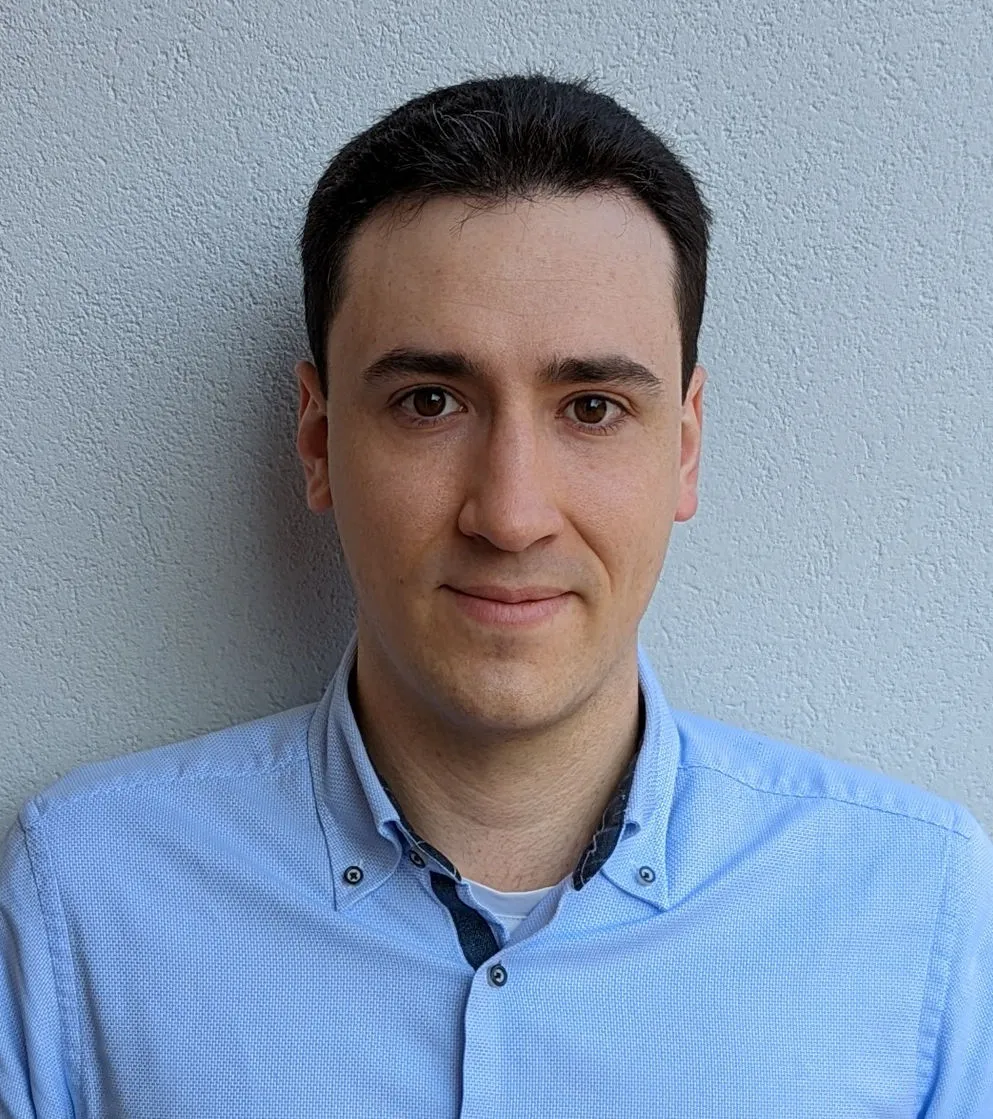
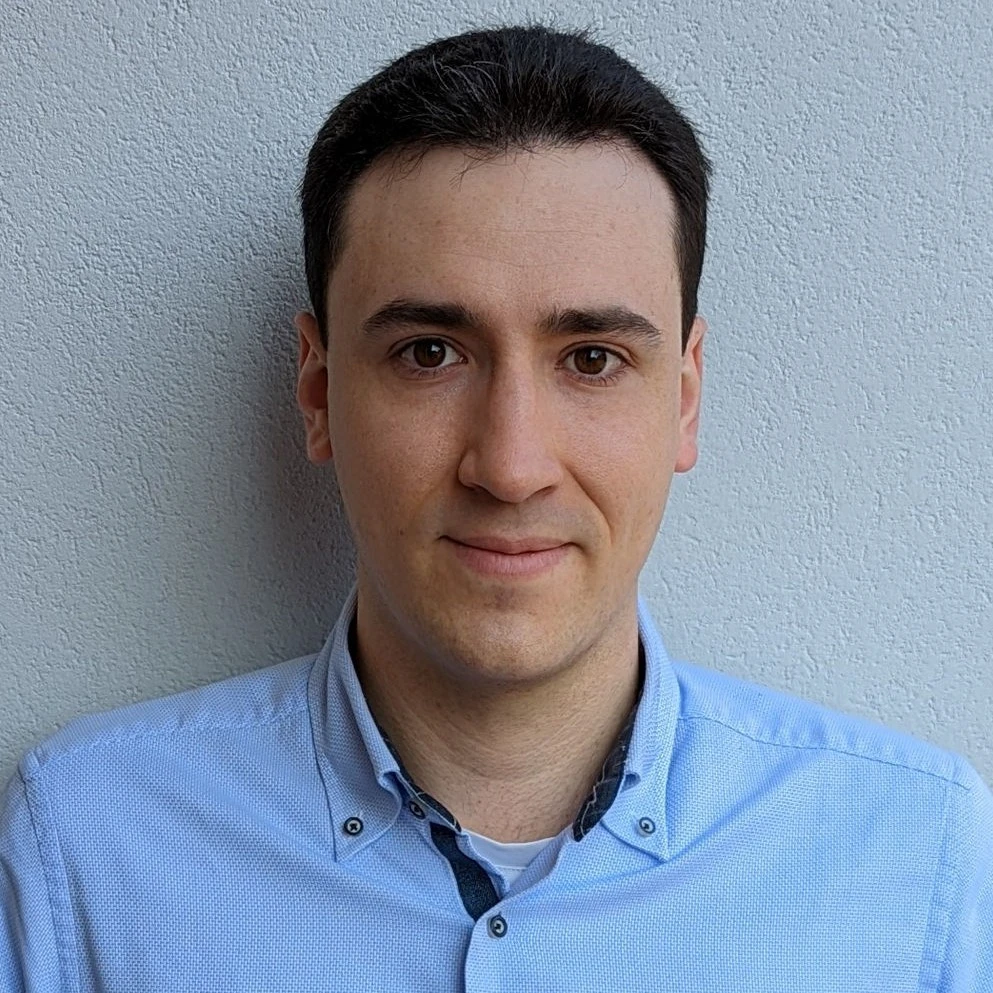
Fix photo aspect ratio

diff --git a/docs/main.css b/docs/main.css
@@ -1,1 +1,1 @@
-body{--primary-color: #6d9bff;--primary-pale-color: #6d9bff20;--text-color: #3C4043;--text-pale-color: #a0a9bf;--bg-color: #ffffff;--callout-note-color: #4890fc;--callout-note-bg-color: #4890fc20;--callout-important-color: #b080ff;--callout-important-bg-color: #b080ff30;--callout-warning-color: #e4a135;--callout-warning-bg-color: #f5a62325;--callout-alert-color: #ff6868;--callout-alert-bg-color: #ff686825;--callout-question-color: #4e95b9;--callout-question-bg-color: #4e95b920;--callout-tip-color: #41c885;--callout-tip-bg-color: #41c88530;--main-font: "Roboto", ui-sans-serif, system-ui, -apple-system, BlinkMacSystemFont, "Segoe UI", Roboto, "Helvetica Neue", Arial, "Noto Sans", sans-serif, "Apple Color Emoji", "Segoe UI Emoji", "Segoe UI Symbol", "Noto Color Emoji";--code-font: ui-monospace, SFMono-Regular, Menlo, Monaco, Consolas, "Liberation Mono", "Courier New", monospace;--homepage-max-width: 650px;--main-max-width: 900px;--avatar-size: 100px;--paragraph-font-size: 18px;--paragraph-line-height: 1.75;--img-border-radius: 4px;--code-border-radius: 4px}body.dark{--primary-color: #6d9bff;--primary-pale-color: #6d9bff20;--text-color: #9197a5;--text-pale-color: #5d6470;--bg-color: #202124}*,*::before,*::after{box-sizing:border-box}body{min-height:100%;font-family:var(--main-font);background-color:var(--bg-color);color:var(--text-color)}html{scroll-behavior:smooth}@media screen and (min-width: 425px){::-webkit-scrollbar{width:6px;height:6px}::-webkit-scrollbar-track{background:rgba(0,0,0,0)}::-webkit-scrollbar-thumb{background:rgba(174,183,202,.631372549);border-radius:2px}::-webkit-scrollbar-thumb:hover{background:rgba(138,144,161,.631372549)}}body.homepage #wrapper{min-height:100vh;display:flex;justify-content:center;align-items:center}body.homepage main{max-width:var(--homepage-max-width);padding:2em 1em 6em}body.homepage #info{display:flex;gap:1em}body.homepage #info img{height:var(--avatar-size);width:var(--avatar-size);border-radius:50%}body.homepage #info #text{font-size:1.25em;display:flex;flex-direction:column;justify-content:space-around}body.homepage #info #id{margin-left:.5em;color:var(--primary-color)}body.homepage #info #bio{font-size:.85em}body.homepage #links{max-height:24px;margin:1.25em 0 1.5em;display:flex;justify-content:space-between;align-items:center;flex-wrap:wrap;gap:.5em 1em;font-size:1.25em}body.homepage #links a,body.homepage #links button{text-decoration:none;color:var(--text-color)}body.homepage #links a:hover,body.homepage #links button:hover{color:var(--primary-color)}body.homepage #links #left{display:flex;gap:1em}body.homepage #links #left a{border-bottom:1.5px solid var(--primary-color);line-height:24px}body.homepage #links #right{display:flex;gap:.5em}body.homepage #links #right a,body.homepage #links #right button{width:24px;height:24px}body.homepage #links #right button{padding:0;border:none;background-color:rgba(0,0,0,0);cursor:pointer}@media (max-width: 425px){body.homepage #links #left{gap:.75em}}body.homepage #brief{font-size:1.25em;line-height:1.5;margin:2em 0 0 0}body.homepage #brief p{word-wrap:break-word;margin:.5em 0}body.homepage #brief a{color:var(--primary-color);text-decoration:underline var(--primary-pale-color) 1.5px}body.homepage #brief a:hover{text-decoration-color:var(--primary-color)}body.homepage #brief p>code{font-family:var(--code-font);font-size:.8em;padding:1px 6px;color:var(--primary-color);background-color:var(--primary-pale-color);border-radius:4px}body.homepage #brief img{max-width:100%;display:block;margin:0 auto;border-radius:var(--img-border-radius)}body.homepage #brief blockquote{border-left:4px var(--primary-pale-color) solid;padding-left:16px;margin:0 0 24px 0;color:var(--text-pale-color)}body.homepage #brief li::marker{color:var(--primary-color)}body.homepage #brief hr{border:none;background-color:var(--primary-pale-color);height:3px;margin:36px 0}header{z-index:99;position:fixed;top:0;width:100%;height:45px;background-color:var(--bg-color);border-bottom:1.5px solid var(--primary-color)}@supports (-webkit-backdrop-filter: none) or (backdrop-filter: none){header.blur{background-color:fade(var(--bg-color), 75%);-webkit-backdrop-filter:blur(8px);backdrop-filter:blur(8px)}}header #wrapper{height:100%;max-width:var(--main-max-width);margin:0 auto;padding:0 15px;display:flex;justify-content:space-between;align-items:center;position:relative}header nav{font-size:1.4em}header nav a{color:var(--text-color);text-decoration:none}header nav a:hover{color:var(--primary-color)}header nav .separator{margin:0 .5em}header #btns{display:flex;gap:1em;align-items:center;padding-top:4px;margin:0 .5em 0 0}header #btns a,header #btns button{width:24px;height:24px;border:none;background-color:rgba(0,0,0,0);padding:0;text-decoration:none;color:var(--text-color);cursor:pointer}@media (hover: hover){header #btns a:hover,header #btns button:hover{color:var(--primary-color)}}header #toc-toggle{display:none}@media (max-width: 1024px){header #toc-toggle{display:inline-block}header #toc-toggle.active{color:var(--primary-color)}}footer{font-size:1rem;padding:15px;display:flex;justify-content:space-between;align-items:center;flex-wrap:wrap;gap:15px;color:var(--text-pale-color)}footer a{color:var(--text-pale-color)}@media (max-width: 374px){footer{flex-direction:column;gap:0}}body.blog #blog-wrapper{margin:0 auto;max-width:var(--main-max-width);min-height:100vh;display:flex;flex-direction:column;justify-content:space-between}body.blog main{margin:60px 0}body.blog main .category{font-size:1.3em;margin:25px 15px 15px}body.blog main .publication{padding:15px 15px;border-radius:4px}body.blog main .publication:hover{background-color:var(--primary-pale-color)}@media (max-width: 768px){body.blog main .publication{margin:0 0px 0 0;padding:10px 0px 10px 0;font-size:.8em}}body.blog main .publication .publication-title{font-size:1em;padding:2px 0 2px 0;font-weight:bold}body.blog main .publication .publication-venue{padding:2px 0 2px 0;font-family:var(--code-font)}body.blog main .post-list{margin-top:25px}body.blog main .post{padding:15px 15px;border-radius:4px}body.blog main .post:hover{background-color:var(--primary-pale-color)}body.blog main .post .tags-list>p{font-family:var(--code-font);margin:0 5px;padding:0 10px 0 0}@media (max-width: 768px){body.blog main .post .tags-list>p{font-size:1em;margin:0 0px 0 0;padding:0px 0px 0 18px;font-size:.8em}}body.blog main .post>a{display:flex;justify-content:space-between;align-items:flex-end;font-size:1.3em;text-decoration:none;color:var(--primary-color);-webkit-tap-highlight-color:rgba(0,0,0,0)}@media (max-width: 768px){body.blog main .post>a{font-size:1em;margin:0 5px;padding:7.5px 10px}}body.blog main .post>a .date{white-space:nowrap}body.blog main .post-description{margin:0 5px;padding:0 10px 0 0}@media (max-width: 900px){body.blog main .post-description{font-size:1em;margin:0 5px 0 0;padding:0 15px 0 17px;font-size:.8em}}body.post #post-wrapper{display:flex;justify-content:space-between;margin-top:45px;font-size:18px;min-height:100vh}body.post #blank{width:calc((100% - var(--main-max-width))/2)}body.post main{width:100%;max-width:var(--main-max-width)}body.post article{padding:0 15px 30px;font-size:var(--paragraph-font-size)}body.post article #post-info{display:flex;justify-content:space-between;align-items:center;flex-wrap:wrap;margin-bottom:1em}body.post article #date{color:var(--text-pale-color);margin-bottom:1em}body.post article #date #publish,body.post article #date #updated{margin-right:20px}body.post article #tags{margin-bottom:1em;display:flex;gap:1em;flex-wrap:wrap}body.post article #tags a{color:var(--primary-color);text-decoration:none}body.post article h1{font-size:1.5em;font-weight:bolder;margin:1em 0 .5em 0}body.post article h2{font-size:1.3em;padding-top:65px;margin-top:-45px}body.post article h3{font-size:1.1em;padding-top:65px;margin-top:-45px}body.post article h4{font-size:1.05em;margin:30px 0 15px 0}body.post article .zola-anchor{visibility:hidden;margin-left:.75em;font-size:.85em}body.post article h1:hover a.zola-anchor,body.post article h2:hover a.zola-anchor,body.post article h3:hover a.zola-anchor,body.post article h4:hover a.zola-anchor,body.post article h5:hover a.zola-anchor,body.post article h6:hover a.zola-anchor{visibility:visible}body.post article p{font-size:1em;line-height:var(--paragraph-line-height);word-wrap:break-word;text-align:justify}body.post article a{color:var(--primary-color);text-decoration:underline var(--primary-pale-color) 1.5px}body.post article a:hover{text-decoration-color:var(--primary-color)}body.post article img{max-width:100%;display:block;margin:0 auto;border-radius:8px}body.post article figure{margin:0 auto}body.post article figcaption{width:100%;text-align:center;margin:5px auto}body.post article blockquote{border-left:4px var(--primary-pale-color) solid;padding-left:16px;margin:0 0 24px 0;color:var(--text-pale-color)}body.post article p>code{font-family:var(--code-font);font-size:.8em;padding:1px 6px;color:var(--primary-color);background-color:var(--primary-pale-color);border-radius:4px}body.post article pre{padding:12px 16px;line-height:1.5;border-radius:var(--code-border-radius);overflow:auto;font-size:.8em}body.post article pre code{font-family:var(--code-font)}body.post article pre[data-linenos]{padding:12px 12px 12px 0px}body.post article pre table{width:100%;border-collapse:collapse}body.post article pre table td{padding:0;line-height:initial;text-align:initial;border:initial}body.post article pre table td:nth-of-type(1){text-align:right;user-select:none;padding-right:1em}body.post article pre mark{display:block;background-color:rgba(254,252,232,.9)}body.post article ul,body.post article ol{line-height:1.8}body.post article li::marker{color:var(--primary-color)}body.post article hr{border:none;background-color:var(--primary-pale-color);height:3px;margin:36px 0}body.post article table{width:100%;border-spacing:0}body.post article thead{background-color:var(--primary-pale-color)}body.post article th,body.post article td{line-height:2;text-align:center;border:1px solid var(--primary-pale-color)}body.post article .footnote-definition{display:flex;margin:2em 0 1em}body.post article .footnote-definition p{margin-top:0}body.post article blockquote.callout{line-height:var(--paragraph-line-height);margin-bottom:20px;border:none;border-radius:4px;padding:6px 12px;display:flex;gap:10px}body.post article blockquote.callout .icon{height:1.75em;display:flex;align-items:center}body.post article blockquote.callout .content p{margin:0}body.post article blockquote.callout .content p+p{margin-top:.5em}body.post article blockquote.callout.note{color:var(--callout-note-color);background-color:var(--callout-note-bg-color)}body.post article blockquote.callout.important{color:var(--callout-important-color);background-color:var(--callout-important-bg-color)}body.post article blockquote.callout.warning{color:var(--callout-warning-color);background-color:var(--callout-warning-bg-color)}body.post article blockquote.callout.alert{color:var(--callout-alert-color);background-color:var(--callout-alert-bg-color)}body.post article blockquote.callout.question{color:var(--callout-question-color);background-color:var(--callout-question-bg-color)}body.post article blockquote.callout.tip{color:var(--callout-tip-color);background-color:var(--callout-tip-bg-color)}body.post .mermaid{background:#fff}body.post .giscus{padding:0 15px}body.post aside{width:calc((100% - var(--main-max-width))/2);position:sticky;margin-top:125px;top:60px;height:min-content;font-size:var(--paragraph-font-size);z-index:9}body.post aside nav{min-width:60%;overflow-y:auto;max-height:80vh;scrollbar-width:none}body.post aside nav::-webkit-scrollbar{width:0}body.post aside ul{list-style-type:none;padding-left:1.5em;line-height:2;margin:0}body.post aside nav a{text-decoration:none;display:block;overflow:hidden;text-overflow:ellipsis;white-space:nowrap;color:var(--primary-color)}body.post aside nav a::before{display:inline-block;content:"";width:3px;height:10px;border-radius:2px;position:relative;top:-1px;margin-right:10px}body.post aside nav a:hover::before,body.post aside nav a.active::before{background-color:var(--primary-color)}@media screen and (max-width: 1024px){body.post aside{position:fixed;right:-100%;top:45px;margin-top:0;min-width:260px;height:100%;background-color:var(--bg-color);box-shadow:rgba(0,0,0,.08) -2px 8px 8px 0px}body.post aside.shown{right:0}body.post aside nav{padding-top:10px}body.post aside ul{padding-left:10px}@supports (-webkit-backdrop-filter: none) or (backdrop-filter: none){body.post aside.blur{background-color:fade(var(--bg-color), 75%);-webkit-backdrop-filter:blur(8px);backdrop-filter:blur(8px)}}body.post #blank{display:none}body.post main{margin:0 auto}}body.post #top{padding-top:45px;margin-top:-45px}body.tag-list #tag-list-wrapper{margin:0 auto;max-width:var(--main-max-width);min-height:100vh;display:flex;flex-direction:column;justify-content:space-between}body.tag-list main{margin:85px auto 60px}body.tag-list .title{width:min-content;font-size:1.3em;margin:0 auto}body.tag-list .tags{margin-top:40px;display:flex;justify-content:center;align-items:center;flex-wrap:wrap;font-size:1.1em}body.tag-list .tags a{color:var(--primary-color);text-decoration:none;margin:2em}body.tag-single #tag-single-wrapper{margin:0 auto;max-width:var(--main-max-width);min-height:100vh;display:flex;flex-direction:column;justify-content:space-between}body.tag-single main{width:100%;margin:85px auto 60px}body.tag-single .title{width:min-content;white-space:nowrap;color:var(--text-color);font-size:1.3em;margin:0 auto;margin-bottom:40px;padding:0 0 0 60px}body.tag-single .title a{margin-left:30px;font-size:.4em;color:var(--primary-color)}body.tag-single .post{display:flex;justify-content:space-between;align-items:flex-end;padding:8px 15px;border-radius:4px;font-size:1.1em;text-decoration:none;color:var(--primary-color)}body.tag-single .post:hover{background-color:var(--primary-pale-color)}body.tag-single .post .date{color:var(--primary-color);white-space:nowrap}@media screen and (max-width: 768px){body.tag-single .post{font-size:1.1em;margin-left:5px;margin-right:5px;padding-left:10px;padding-right:10px}}body.projects #proj-wrapper{margin:0 auto;max-width:var(--main-max-width);min-height:100vh;display:flex;flex-direction:column;justify-content:space-between}body.projects main{width:100%;margin:85px auto 60px}body.projects .proj{margin:0px 15px 30px}body.projects .proj .name{font-size:1.15em;margin:0 0 15px 0;color:var(--primary-color)}body.projects .proj .desc{line-height:1.5;margin:0 0 10px 0}body.projects .proj .desc a{color:var(--primary-color);text-decoration:underline var(--primary-pale-color) 2px}body.projects .proj .desc a:hover{text-decoration-color:var(--primary-color)}body.projects .proj .desc p>code{font-family:var(--code-font);font-size:.8em;padding:1px 6px;color:var(--primary-color);background-color:var(--primary-pale-color);border-radius:4px}body.projects .proj .links{display:flex;justify-content:end;gap:1em}body.projects .proj .links a{text-decoration:none;border-bottom:1.5px solid var(--primary-color);padding:0 2px;cursor:pointer;color:inherit}body.projects .proj .links a:visited{color:inherit}body.projects .proj .links a:hover{color:var(--primary-color)}html{line-height:1.15;-webkit-text-size-adjust:100%;text-size-adjust:100%}body{margin:0}main{display:block}h1{font-size:2em;margin:.67em 0}hr{box-sizing:content-box;height:0;overflow:visible}pre{font-family:monospace,monospace;font-size:1em}a{background-color:rgba(0,0,0,0)}abbr[title]{border-bottom:none;text-decoration:underline;text-decoration:underline dotted}b,strong{font-weight:bolder}code,kbd,samp{font-family:monospace,monospace;font-size:1em}small{font-size:80%}sub,sup{font-size:75%;line-height:0;position:relative;vertical-align:baseline}sub{bottom:-.25em}sup{top:-.5em}img{border-style:none}button,input,optgroup,select,textarea{font-family:inherit;font-size:100%;line-height:1.15;margin:0}button,input{overflow:visible}button,select{text-transform:none}button,[type=button],[type=reset],[type=submit]{-webkit-appearance:button;appearance:button}button::-moz-focus-inner,[type=button]::-moz-focus-inner,[type=reset]::-moz-focus-inner,[type=submit]::-moz-focus-inner{border-style:none;padding:0}button:-moz-focusring,[type=button]:-moz-focusring,[type=reset]:-moz-focusring,[type=submit]:-moz-focusring{outline:1px dotted ButtonText}fieldset{padding:.35em .75em .625em}legend{box-sizing:border-box;color:inherit;display:table;max-width:100%;padding:0;white-space:normal}progress{vertical-align:baseline}textarea{overflow:auto}[type=checkbox],[type=radio]{box-sizing:border-box;padding:0}[type=number]::-webkit-inner-spin-button,[type=number]::-webkit-outer-spin-button{height:auto}[type=search]{-webkit-appearance:textfield;appearance:textfield;outline-offset:-2px}[type=search]::-webkit-search-decoration{-webkit-appearance:none}::-webkit-file-upload-button{-webkit-appearance:button;font:inherit}details{display:block}summary{display:list-item}template{display:none}[hidden]{display:none}
+body{--primary-color: #6d9bff;--primary-pale-color: #6d9bff20;--text-color: #3C4043;--text-pale-color: #a0a9bf;--bg-color: #ffffff;--callout-note-color: #4890fc;--callout-note-bg-color: #4890fc20;--callout-important-color: #b080ff;--callout-important-bg-color: #b080ff30;--callout-warning-color: #e4a135;--callout-warning-bg-color: #f5a62325;--callout-alert-color: #ff6868;--callout-alert-bg-color: #ff686825;--callout-question-color: #4e95b9;--callout-question-bg-color: #4e95b920;--callout-tip-color: #41c885;--callout-tip-bg-color: #41c88530;--main-font: "Roboto", ui-sans-serif, system-ui, -apple-system, BlinkMacSystemFont, "Segoe UI", Roboto, "Helvetica Neue", Arial, "Noto Sans", sans-serif, "Apple Color Emoji", "Segoe UI Emoji", "Segoe UI Symbol", "Noto Color Emoji";--code-font: ui-monospace, SFMono-Regular, Menlo, Monaco, Consolas, "Liberation Mono", "Courier New", monospace;--homepage-max-width: 650px;--main-max-width: 900px;--avatar-size: 100px;--paragraph-font-size: 18px;--paragraph-line-height: 1.75;--img-border-radius: 4px;--code-border-radius: 4px}body.dark{--primary-color: #6d9bff;--primary-pale-color: #6d9bff20;--text-color: #9197a5;--text-pale-color: #5d6470;--bg-color: #202124}*,*::before,*::after{box-sizing:border-box}body{min-height:100%;font-family:var(--main-font);background-color:var(--bg-color);color:var(--text-color)}html{scroll-behavior:smooth}@media screen and (min-width: 425px){::-webkit-scrollbar{width:6px;height:6px}::-webkit-scrollbar-track{background:rgba(0,0,0,0)}::-webkit-scrollbar-thumb{background:rgba(174,183,202,.631372549);border-radius:2px}::-webkit-scrollbar-thumb:hover{background:rgba(138,144,161,.631372549)}}body.homepage #wrapper{min-height:100vh;display:flex;justify-content:center;align-items:center}body.homepage main{max-width:var(--homepage-max-width);padding:2em 1em 6em}body.homepage #info{display:flex;gap:1em}body.homepage #info img{height:var(--avatar-size);width:var(--avatar-size);border-radius:50%;aspect-ratio:1/1}body.homepage #info #text{font-size:1.25em;display:flex;flex-direction:column;justify-content:space-around}body.homepage #info #id{margin-left:.5em;color:var(--primary-color)}body.homepage #info #bio{font-size:.85em}body.homepage #links{max-height:24px;margin:1.25em 0 1.5em;display:flex;justify-content:space-between;align-items:center;flex-wrap:wrap;gap:.5em 1em;font-size:1.25em}body.homepage #links a,body.homepage #links button{text-decoration:none;color:var(--text-color)}body.homepage #links a:hover,body.homepage #links button:hover{color:var(--primary-color)}body.homepage #links #left{display:flex;gap:1em}body.homepage #links #left a{border-bottom:1.5px solid var(--primary-color);line-height:24px}body.homepage #links #right{display:flex;gap:.5em}body.homepage #links #right a,body.homepage #links #right button{width:24px;height:24px}body.homepage #links #right button{padding:0;border:none;background-color:rgba(0,0,0,0);cursor:pointer}@media (max-width: 425px){body.homepage #links #left{gap:.75em}}body.homepage #brief{font-size:1.25em;line-height:1.5;margin:2em 0 0 0}body.homepage #brief p{word-wrap:break-word;margin:.5em 0}body.homepage #brief a{color:var(--primary-color);text-decoration:underline var(--primary-pale-color) 1.5px}body.homepage #brief a:hover{text-decoration-color:var(--primary-color)}body.homepage #brief p>code{font-family:var(--code-font);font-size:.8em;padding:1px 6px;color:var(--primary-color);background-color:var(--primary-pale-color);border-radius:4px}body.homepage #brief img{max-width:100%;display:block;margin:0 auto;border-radius:var(--img-border-radius)}body.homepage #brief blockquote{border-left:4px var(--primary-pale-color) solid;padding-left:16px;margin:0 0 24px 0;color:var(--text-pale-color)}body.homepage #brief li::marker{color:var(--primary-color)}body.homepage #brief hr{border:none;background-color:var(--primary-pale-color);height:3px;margin:36px 0}header{z-index:99;position:fixed;top:0;width:100%;height:45px;background-color:var(--bg-color);border-bottom:1.5px solid var(--primary-color)}@supports (-webkit-backdrop-filter: none) or (backdrop-filter: none){header.blur{background-color:fade(var(--bg-color), 75%);-webkit-backdrop-filter:blur(8px);backdrop-filter:blur(8px)}}header #wrapper{height:100%;max-width:var(--main-max-width);margin:0 auto;padding:0 15px;display:flex;justify-content:space-between;align-items:center;position:relative}header nav{font-size:1.4em}header nav a{color:var(--text-color);text-decoration:none}header nav a:hover{color:var(--primary-color)}header nav .separator{margin:0 .5em}header #btns{display:flex;gap:1em;align-items:center;padding-top:4px;margin:0 .5em 0 0}header #btns a,header #btns button{width:24px;height:24px;border:none;background-color:rgba(0,0,0,0);padding:0;text-decoration:none;color:var(--text-color);cursor:pointer}@media (hover: hover){header #btns a:hover,header #btns button:hover{color:var(--primary-color)}}header #toc-toggle{display:none}@media (max-width: 1024px){header #toc-toggle{display:inline-block}header #toc-toggle.active{color:var(--primary-color)}}footer{font-size:1rem;padding:15px;display:flex;justify-content:space-between;align-items:center;flex-wrap:wrap;gap:15px;color:var(--text-pale-color)}footer a{color:var(--text-pale-color)}@media (max-width: 374px){footer{flex-direction:column;gap:0}}body.blog #blog-wrapper{margin:0 auto;max-width:var(--main-max-width);min-height:100vh;display:flex;flex-direction:column;justify-content:space-between}body.blog main{margin:60px 0}body.blog main .category{font-size:1.3em;margin:25px 15px 15px}body.blog main .publication{padding:15px 15px;border-radius:4px}body.blog main .publication:hover{background-color:var(--primary-pale-color)}@media (max-width: 768px){body.blog main .publication{margin:0 0px 0 0;padding:10px 0px 10px 0;font-size:.8em}}body.blog main .publication .publication-title{font-size:1em;padding:2px 0 2px 0;font-weight:bold}body.blog main .publication .publication-venue{padding:2px 0 2px 0;font-family:var(--code-font)}body.blog main .post-list{margin-top:25px}body.blog main .post{padding:15px 15px;border-radius:4px}body.blog main .post:hover{background-color:var(--primary-pale-color)}body.blog main .post .tags-list>p{font-family:var(--code-font);margin:0 5px;padding:0 10px 0 0}@media (max-width: 768px){body.blog main .post .tags-list>p{font-size:1em;margin:0 0px 0 0;padding:0px 0px 0 18px;font-size:.8em}}body.blog main .post>a{display:flex;justify-content:space-between;align-items:flex-end;font-size:1.3em;text-decoration:none;color:var(--primary-color);-webkit-tap-highlight-color:rgba(0,0,0,0)}@media (max-width: 768px){body.blog main .post>a{font-size:1em;margin:0 5px;padding:7.5px 10px}}body.blog main .post>a .date{white-space:nowrap}body.blog main .post-description{margin:0 5px;padding:0 10px 0 0}@media (max-width: 900px){body.blog main .post-description{font-size:1em;margin:0 5px 0 0;padding:0 15px 0 17px;font-size:.8em}}body.post #post-wrapper{display:flex;justify-content:space-between;margin-top:45px;font-size:18px;min-height:100vh}body.post #blank{width:calc((100% - var(--main-max-width))/2)}body.post main{width:100%;max-width:var(--main-max-width)}body.post article{padding:0 15px 30px;font-size:var(--paragraph-font-size)}body.post article #post-info{display:flex;justify-content:space-between;align-items:center;flex-wrap:wrap;margin-bottom:1em}body.post article #date{color:var(--text-pale-color);margin-bottom:1em}body.post article #date #publish,body.post article #date #updated{margin-right:20px}body.post article #tags{margin-bottom:1em;display:flex;gap:1em;flex-wrap:wrap}body.post article #tags a{color:var(--primary-color);text-decoration:none}body.post article h1{font-size:1.5em;font-weight:bolder;margin:1em 0 .5em 0}body.post article h2{font-size:1.3em;padding-top:65px;margin-top:-45px}body.post article h3{font-size:1.1em;padding-top:65px;margin-top:-45px}body.post article h4{font-size:1.05em;margin:30px 0 15px 0}body.post article .zola-anchor{visibility:hidden;margin-left:.75em;font-size:.85em}body.post article h1:hover a.zola-anchor,body.post article h2:hover a.zola-anchor,body.post article h3:hover a.zola-anchor,body.post article h4:hover a.zola-anchor,body.post article h5:hover a.zola-anchor,body.post article h6:hover a.zola-anchor{visibility:visible}body.post article p{font-size:1em;line-height:var(--paragraph-line-height);word-wrap:break-word;text-align:justify}body.post article a{color:var(--primary-color);text-decoration:underline var(--primary-pale-color) 1.5px}body.post article a:hover{text-decoration-color:var(--primary-color)}body.post article img{max-width:100%;display:block;margin:0 auto;border-radius:8px}body.post article figure{margin:0 auto}body.post article figcaption{width:100%;text-align:center;margin:5px auto}body.post article blockquote{border-left:4px var(--primary-pale-color) solid;padding-left:16px;margin:0 0 24px 0;color:var(--text-pale-color)}body.post article p>code{font-family:var(--code-font);font-size:.8em;padding:1px 6px;color:var(--primary-color);background-color:var(--primary-pale-color);border-radius:4px}body.post article pre{padding:12px 16px;line-height:1.5;border-radius:var(--code-border-radius);overflow:auto;font-size:.8em}body.post article pre code{font-family:var(--code-font)}body.post article pre[data-linenos]{padding:12px 12px 12px 0px}body.post article pre table{width:100%;border-collapse:collapse}body.post article pre table td{padding:0;line-height:initial;text-align:initial;border:initial}body.post article pre table td:nth-of-type(1){text-align:right;user-select:none;padding-right:1em}body.post article pre mark{display:block;background-color:rgba(254,252,232,.9)}body.post article ul,body.post article ol{line-height:1.8}body.post article li::marker{color:var(--primary-color)}body.post article hr{border:none;background-color:var(--primary-pale-color);height:3px;margin:36px 0}body.post article table{width:100%;border-spacing:0}body.post article thead{background-color:var(--primary-pale-color)}body.post article th,body.post article td{line-height:2;text-align:center;border:1px solid var(--primary-pale-color)}body.post article .footnote-definition{display:flex;margin:2em 0 1em}body.post article .footnote-definition p{margin-top:0}body.post article blockquote.callout{line-height:var(--paragraph-line-height);margin-bottom:20px;border:none;border-radius:4px;padding:6px 12px;display:flex;gap:10px}body.post article blockquote.callout .icon{height:1.75em;display:flex;align-items:center}body.post article blockquote.callout .content p{margin:0}body.post article blockquote.callout .content p+p{margin-top:.5em}body.post article blockquote.callout.note{color:var(--callout-note-color);background-color:var(--callout-note-bg-color)}body.post article blockquote.callout.important{color:var(--callout-important-color);background-color:var(--callout-important-bg-color)}body.post article blockquote.callout.warning{color:var(--callout-warning-color);background-color:var(--callout-warning-bg-color)}body.post article blockquote.callout.alert{color:var(--callout-alert-color);background-color:var(--callout-alert-bg-color)}body.post article blockquote.callout.question{color:var(--callout-question-color);background-color:var(--callout-question-bg-color)}body.post article blockquote.callout.tip{color:var(--callout-tip-color);background-color:var(--callout-tip-bg-color)}body.post .mermaid{background:#fff}body.post .giscus{padding:0 15px}body.post aside{width:calc((100% - var(--main-max-width))/2);position:sticky;margin-top:125px;top:60px;height:min-content;font-size:var(--paragraph-font-size);z-index:9}body.post aside nav{min-width:60%;overflow-y:auto;max-height:80vh;scrollbar-width:none}body.post aside nav::-webkit-scrollbar{width:0}body.post aside ul{list-style-type:none;padding-left:1.5em;line-height:2;margin:0}body.post aside nav a{text-decoration:none;display:block;overflow:hidden;text-overflow:ellipsis;white-space:nowrap;color:var(--primary-color)}body.post aside nav a::before{display:inline-block;content:"";width:3px;height:10px;border-radius:2px;position:relative;top:-1px;margin-right:10px}body.post aside nav a:hover::before,body.post aside nav a.active::before{background-color:var(--primary-color)}@media screen and (max-width: 1024px){body.post aside{position:fixed;right:-100%;top:45px;margin-top:0;min-width:260px;height:100%;background-color:var(--bg-color);box-shadow:rgba(0,0,0,.08) -2px 8px 8px 0px}body.post aside.shown{right:0}body.post aside nav{padding-top:10px}body.post aside ul{padding-left:10px}@supports (-webkit-backdrop-filter: none) or (backdrop-filter: none){body.post aside.blur{background-color:fade(var(--bg-color), 75%);-webkit-backdrop-filter:blur(8px);backdrop-filter:blur(8px)}}body.post #blank{display:none}body.post main{margin:0 auto}}body.post #top{padding-top:45px;margin-top:-45px}body.tag-list #tag-list-wrapper{margin:0 auto;max-width:var(--main-max-width);min-height:100vh;display:flex;flex-direction:column;justify-content:space-between}body.tag-list main{margin:85px auto 60px}body.tag-list .title{width:min-content;font-size:1.3em;margin:0 auto}body.tag-list .tags{margin-top:40px;display:flex;justify-content:center;align-items:center;flex-wrap:wrap;font-size:1.1em}body.tag-list .tags a{color:var(--primary-color);text-decoration:none;margin:2em}body.tag-single #tag-single-wrapper{margin:0 auto;max-width:var(--main-max-width);min-height:100vh;display:flex;flex-direction:column;justify-content:space-between}body.tag-single main{width:100%;margin:85px auto 60px}body.tag-single .title{width:min-content;white-space:nowrap;color:var(--text-color);font-size:1.3em;margin:0 auto;margin-bottom:40px;padding:0 0 0 60px}body.tag-single .title a{margin-left:30px;font-size:.4em;color:var(--primary-color)}body.tag-single .post{display:flex;justify-content:space-between;align-items:flex-end;padding:8px 15px;border-radius:4px;font-size:1.1em;text-decoration:none;color:var(--primary-color)}body.tag-single .post:hover{background-color:var(--primary-pale-color)}body.tag-single .post .date{color:var(--primary-color);white-space:nowrap}@media screen and (max-width: 768px){body.tag-single .post{font-size:1.1em;margin-left:5px;margin-right:5px;padding-left:10px;padding-right:10px}}body.projects #proj-wrapper{margin:0 auto;max-width:var(--main-max-width);min-height:100vh;display:flex;flex-direction:column;justify-content:space-between}body.projects main{width:100%;margin:85px auto 60px}body.projects .proj{margin:0px 15px 30px}body.projects .proj .name{font-size:1.15em;margin:0 0 15px 0;color:var(--primary-color)}body.projects .proj .desc{line-height:1.5;margin:0 0 10px 0}body.projects .proj .desc a{color:var(--primary-color);text-decoration:underline var(--primary-pale-color) 2px}body.projects .proj .desc a:hover{text-decoration-color:var(--primary-color)}body.projects .proj .desc p>code{font-family:var(--code-font);font-size:.8em;padding:1px 6px;color:var(--primary-color);background-color:var(--primary-pale-color);border-radius:4px}body.projects .proj .links{display:flex;justify-content:end;gap:1em}body.projects .proj .links a{text-decoration:none;border-bottom:1.5px solid var(--primary-color);padding:0 2px;cursor:pointer;color:inherit}body.projects .proj .links a:visited{color:inherit}body.projects .proj .links a:hover{color:var(--primary-color)}html{line-height:1.15;-webkit-text-size-adjust:100%;text-size-adjust:100%}body{margin:0}main{display:block}h1{font-size:2em;margin:.67em 0}hr{box-sizing:content-box;height:0;overflow:visible}pre{font-family:monospace,monospace;font-size:1em}a{background-color:rgba(0,0,0,0)}abbr[title]{border-bottom:none;text-decoration:underline;text-decoration:underline dotted}b,strong{font-weight:bolder}code,kbd,samp{font-family:monospace,monospace;font-size:1em}small{font-size:80%}sub,sup{font-size:75%;line-height:0;position:relative;vertical-align:baseline}sub{bottom:-.25em}sup{top:-.5em}img{border-style:none}button,input,optgroup,select,textarea{font-family:inherit;font-size:100%;line-height:1.15;margin:0}button,input{overflow:visible}button,select{text-transform:none}button,[type=button],[type=reset],[type=submit]{-webkit-appearance:button;appearance:button}button::-moz-focus-inner,[type=button]::-moz-focus-inner,[type=reset]::-moz-focus-inner,[type=submit]::-moz-focus-inner{border-style:none;padding:0}button:-moz-focusring,[type=button]:-moz-focusring,[type=reset]:-moz-focusring,[type=submit]:-moz-focusring{outline:1px dotted ButtonText}fieldset{padding:.35em .75em .625em}legend{box-sizing:border-box;color:inherit;display:table;max-width:100%;padding:0;white-space:normal}progress{vertical-align:baseline}textarea{overflow:auto}[type=checkbox],[type=radio]{box-sizing:border-box;padding:0}[type=number]::-webkit-inner-spin-button,[type=number]::-webkit-outer-spin-button{height:auto}[type=search]{-webkit-appearance:textfield;appearance:textfield;outline-offset:-2px}[type=search]::-webkit-search-decoration{-webkit-appearance:none}::-webkit-file-upload-button{-webkit-appearance:button;font:inherit}details{display:block}summary{display:list-item}template{display:none}[hidden]{display:none}

diff --git a/sass/main.scss b/sass/main.scss
@@ -107,6 +107,7 @@ body.homepage {
       height: var(--avatar-size);
       width: var(--avatar-size);
       border-radius: 50%;
+      aspect-ratio: 1 / 1;
     }
 
     #text {
